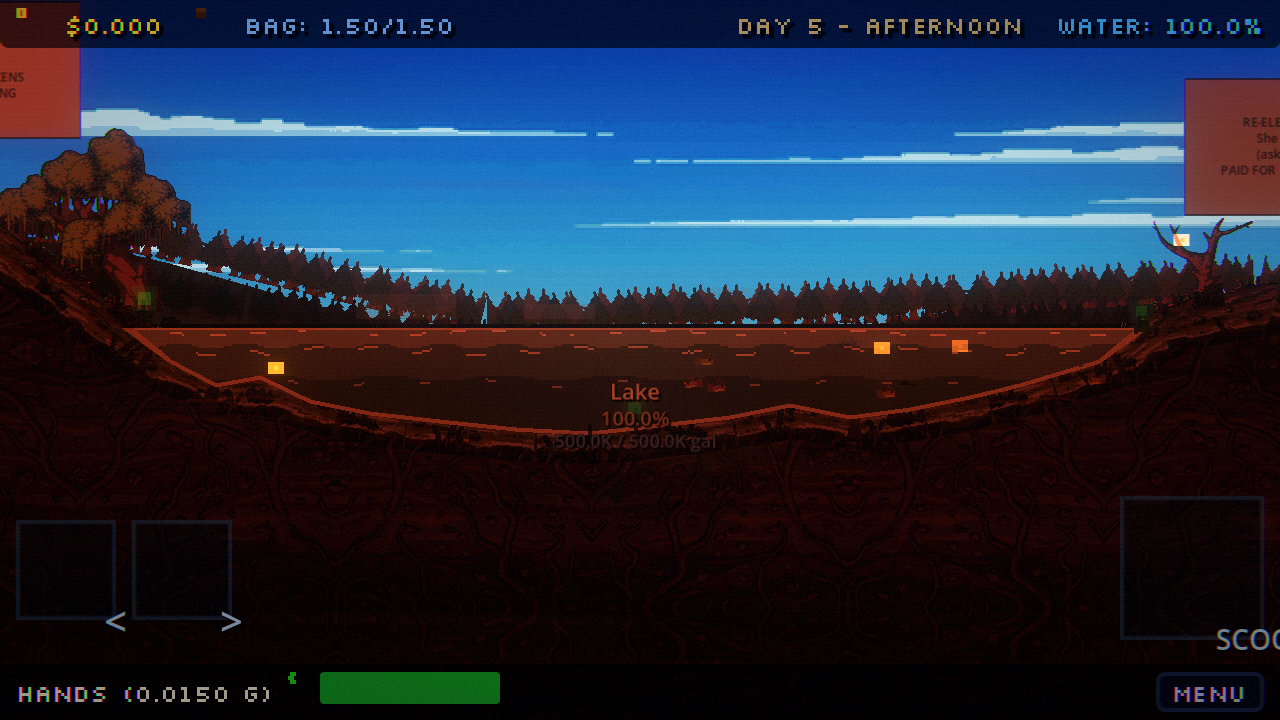
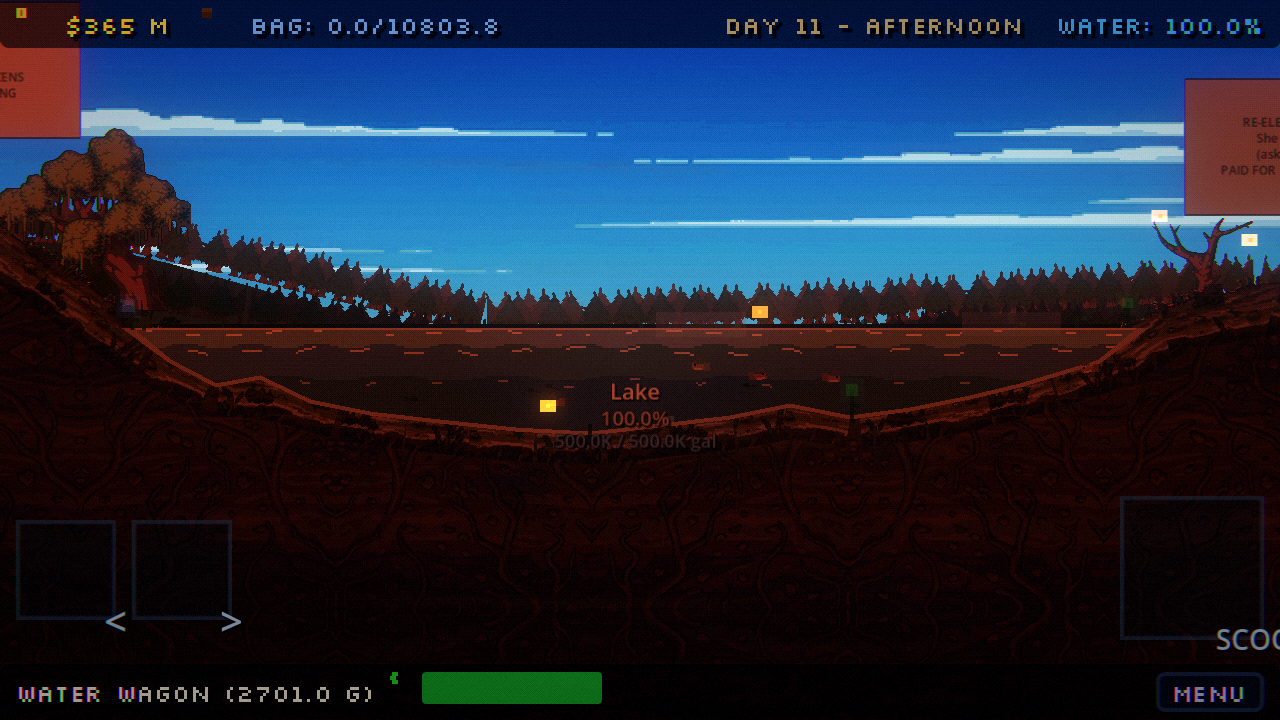
v3 water: fix rim-collapse on small basins, retune murky palette blue-forward
Resumed track 1 (water) from the usage-limit WIP commit. Two real rendering
bugs found and fixed in scripts/world/water_skin.gd:

- _inner() shrinks the water polygon 2px on the bank sides via
  Geometry2D.offset_polygon; on small/narrow basins this collapses to
  empty, so only the flat foam-rim polygon drew (no bands, no highlight
  dashes) -- basin read as a flat undifferentiated color. Falls back to
  the unshrunk polygon when the offset collapses.
- MURKY palette (low heal grade) was yellow-olive, nearly identical hue to
  the game's grass/dirt -- a full, murky basin was visually indistinguishable
  from the surrounding pasture by day (the exact failure the plan calls
  out). Retuned blue-forward so it reads as silty swamp water at any time
  of day while staying darker than the CLEAR (healed) palette.

Verified with DTS_FILL/DTS_DRAIN driven directly (capture.py doesn't expose
fill; the shared cross-worktree save file had drifted to a mostly-drained
Day 11) across day/dusk/night x drain 0/1 on both a small and large basin,
plus a drained cracked-mud-bed close-up. tools/capture.py --check clean
(only the known pre-existing baseline error). Report in
docs/plans/revamp-tracks/water.md.

Claude-Session: https://claude.ai/code/session_01CcpffDnjW4qk7K15J9eHGm

diff --git a/docs/plans/revamp-tracks/water.md b/docs/plans/revamp-tracks/water.md
@@ -1,0 +1,101 @@
+# Track 1: water — report
+
+Branch `v3/water`, worktree `dts-wt/water`. Resumed from a prior agent's
+usage-limit WIP commit (`da14160`), not restarted.
+
+## What was already there (inherited, kept)
+
+- `scripts/world/water_skin.gd`: draws every basin's water as a pixel-shader
+  Polygon2D over `game_world.gd`'s `water_polygons` geometry (traced by
+  reference, old draw hidden by ref, never re-tuned) plus a foam-rim
+  Polygon2D and a cracked-mud bed Polygon2D that fades in as the basin
+  drains. Palette is decided on the CPU per basin per frame (murk→clear by
+  heal grade, day/dusk/night blend, per-basin hue identity) and pushed into
+  `shaders/pixel_water.gdshader`, which only bands (flat depth bands, no
+  gradients) and dashes two rows of scrolling 1px highlight pixels — both
+  quantized to the art grid.
+- `scripts/game_world.gd`: `const V3_WATER := true` switch; skips the old
+  sparkle/foam/shimmer/lily/ripple/drained-bed builders (each gated with an
+  early `if V3_WATER: return`) and adds the new `water_skin` child in
+  `_ready()`. Old nodes stay alive but hidden (other code still indexes
+  them by array position).
+- `assets/art/drainsville/cracked_mud.png` (baked, x2) + Gemini source
+  `assets/gen/cracked-mud-tile.png` — 1 of the 3-image water budget already
+  spent by the prior agent. **I spent 0 further Gemini images** (budget
+  note said 1 remained; unused — the fixes below were code/palette only).
+
+## What I found broken and fixed
+
+1. **Small basins rendered as a flat, undifferentiated color — no bands, no
+   foam, no highlight dashes.** `_inner()` shrinks the water polygon by 2px
+   on the bank sides via `Geometry2D.offset_polygon`; on narrow/small basins
+   this can return empty or a degenerate sliver, which made `_inner` return
+   an empty polygon so the shaded water Polygon2D drew nothing — only the
+   full-size foam-rim Polygon2D showed, as one flat color. Fixed by falling
+   back to the un-shrunk polygon whenever the offset collapses
+   (`scripts/world/water_skin.gd`, `_inner()`), so the banded/dashed water
+   always draws; the only loss on a collapsed basin is the 2px rim inset.
+2. **Murky (low-heal) water read as invisible dirt/grass by day, per the
+   plan's own diagnosis.** The `MURKY` palette was a yellow-olive
+   (`Color(0.60,0.60,0.34)` top tone etc.) that sat almost exactly on top of
+   the game's grass/dirt hues (both high R≈G, low B) — confirmed visually:
+   a 100%-full, fully-murky basin was indistinguishable from the pasture
+   next to it. Re-tuned `MURKY` blue-forward (still darker/siltier than the
+   `CLEAR` palette, so heal still visibly brightens it) so it reads as
+   water — silty swamp water, not lawn — at any time of day. See
+   `MURKY` const in `water_skin.gd`.
+
+Both were real rendering bugs, not just capture-state artifacts — verified
+by forcing `DTS_FILL`/`DTS_DRAIN` directly (see Verification) rather than
+trusting the shared save file's current progress.
+
+## Verification
+
+`tools/capture.py` only exposes `--drain` (heal grade), not fill level, so
+its captures ride whatever fill the shared save (`user://save_data.json`,
+shared across all 8 worktrees — same Godot project name) happens to be at.
+That save had drifted to Day 11 / mostly-drained by the time I ran this, so
+I drove the Godot binary directly with `DTS_FILL` set (0.0 / 1.0) alongside
+`DTS_CAMX` / `DTS_TOD` / `DTS_DRAIN` to get deterministic full/drained
+shots without touching the shared save file. All captures below re-saved
+over the existing filenames in
+`_screenshots/revamp-2026-09-11/water/` (read back and confirmed):
+
+- `pools1500_{day,dusk,night}_{d0,d1}.png` — small "Swamp" basin, full
+  water, drain(heal) 0 and 1, three times of day. All read clearly as
+  water: banded, foam-rimmed, highlight dashes visible, murky-blue by day
+  at d0, clear teal at d1, readable dim blue floor at night.
+- `pools1500_day_drained.png` + a zoomed follow-up — fill 0, cracked
+  flagstone-mud bed visible and clearly distinct from the surrounding
+  swirly dirt-wall texture.
+- `pools2200_{day,dusk,night}_{d0,d1}.png`, `zoom2200_day_d0.png` — large
+  "Lake" basin, same matrix; this one always looked correct (wide enough
+  that the rim-offset bug never triggered) and still does.
+- `tools/capture.py --check` (headless boot/parse): only the pre-existing
+  baseline `ERROR: Parameter "t" is null.` — no new errors introduced.
+
+## What's still old / out of scope
+
+- Foam rim is a single flat color from `pal[0].lightened(0.22)` — reads
+  fine but is not itself pixel-dashed; left as-is, not part of the
+  "reads as water" bar and lower risk to leave alone.
+- Dusk lighting washes the whole scene orange via the existing post-process
+  shader (untouched, out of scope) — water is still legible under it, just
+  worth knowing the dusk captures look uniformly warm, not a water-track
+  artifact.
+- Did not touch terrain / `terrain_points`; `tests/terrain_walkable.gd`
+  does not exist on this branch, so it was not run (per instructions).
+
+## For the integrator
+
+- Files touched: `scripts/world/water_skin.gd` (the two fixes above),
+  `scripts/game_world.gd` (inherited switch block, unchanged by me).
+- The shared save file at
+  `%APPDATA%/Godot/app_userdata/Drain The Swamp/save_data.json` is common
+  to every worktree (same `config/name`). Any track's captures can drift
+  it; use `DTS_FILL` directly (not exposed by `capture.py`, but read by
+  `water_skin.gd`'s `_fill_override`) if you need a deterministic
+  full/drained shot regardless of save state.
+- Merge should be a straight cherry-pick of the `V3_WATER` switch block
+  (already isolated with `if V3_WATER: return` guards) plus the two new
+  files; no other track file touched.
